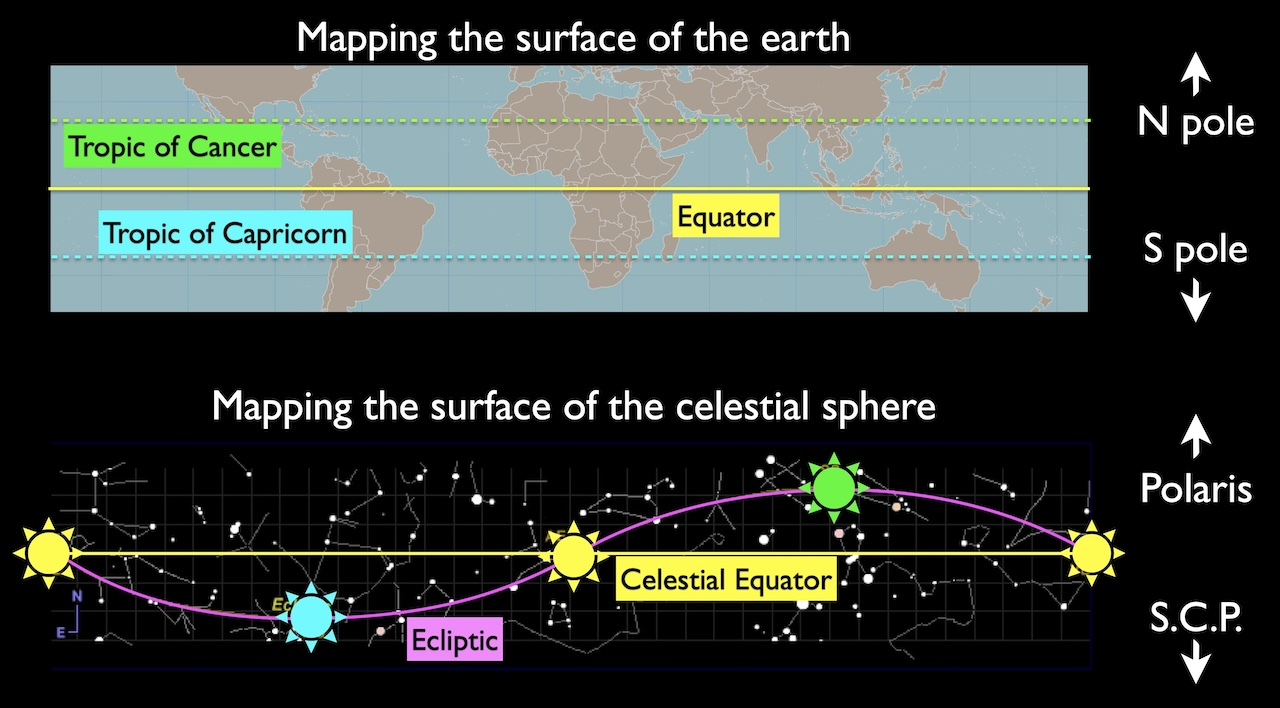
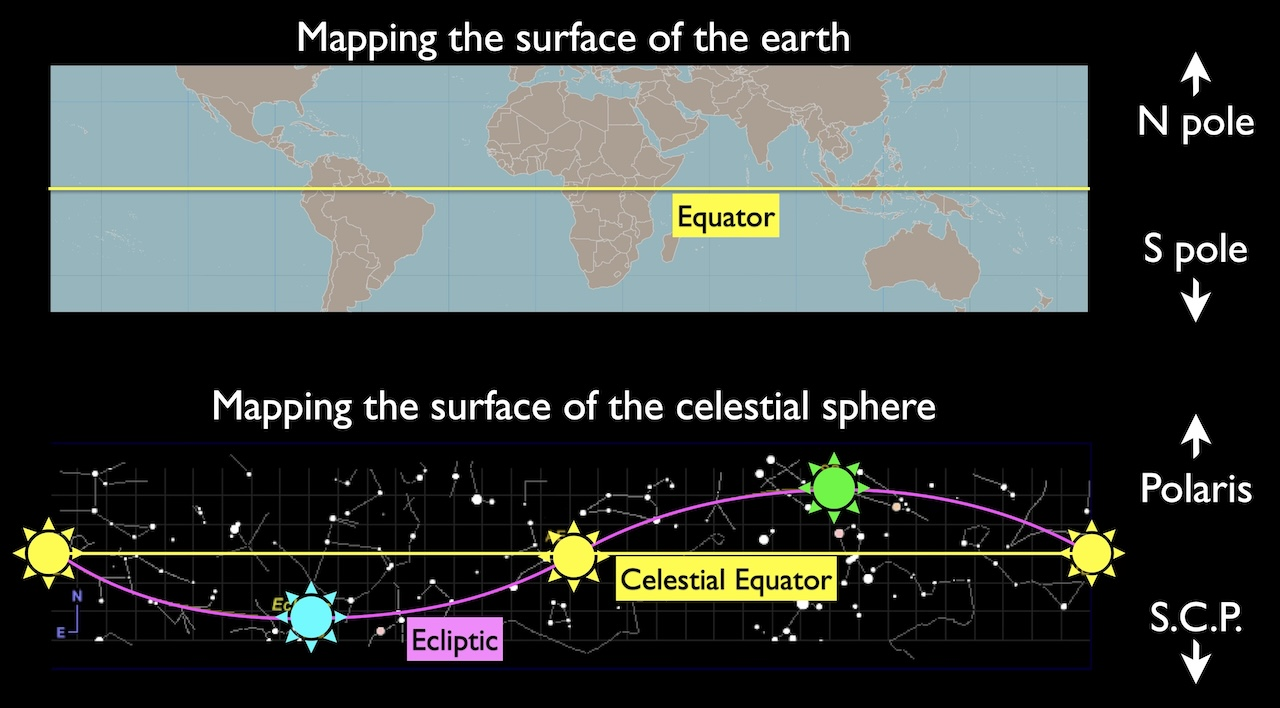
seasons

Changed region(s): [[0.0312, 0.2797, 0.8438, 0.3729], [0.0312, 0.1554, 0.8438, 0.2486]]

diff --git a/docs/modules/seasons_on_earth.md b/docs/modules/seasons_on_earth.md
@@ -1,0 +1,171 @@
+# Seasons on Earth
+
+Dr. Gabriela Gonzalez, 
+
+![Map of the Americas with labeled markers for Syracuse, NY, USA (green) in the northeastern United States and Córdoba, Argentina (purple) in central Argentina. A curved black arrow points from Córdoba northward to Syracuse. An oval portrait of a woman appears over North America near the Syracuse label.](img/GabrielaGonzalesCordobaToSyracuse.jpg)
+
+![Line graph of monthly average high and low temperatures (°F) for Córdoba (purple) and Syracuse (green). Córdoba’s curves are highest in January and lowest in July, while Syracuse’s curves are lowest in January and highest in July.](img/CompareAverageHighLowTemperatureCordobaSyracuse.png)
+
+ [Source: © WeatherSpark.com](https://weatherspark.com/compare/y/28147~22184/Comparison-of-the-Average-Weather-in-C%C3%B3rdoba-and-Syracuse)
+
+## Sunlight on the Earth
+
+* Earth’s axis is tilted by 23.5 degrees w/r/t the ecliptic plane
+
+* The Northern Hemisphere is tilted toward the Sun in June
+
+* The Southern Hemisphere is tilted toward the sun in December
+
+![Diagram of Earth at four points in its orbit (March equinox, June solstice, September equinox, December solstice). In all four positions, Earth’s axis is tilted about 23.5° relative to a line perpendicular to the orbital plane and remains parallel to itself; in the June position the North Pole leans toward the Sun, in the December position it leans away, and at the equinox positions it tilts sideways relative to the Sun.](img/equinoxes-and-solstice.png)
+*[Source: timeanddate.com](https://www.timeanddate.com/astronomy/equinox-solstice.html)*
+
+## Sunlight carries energy
+
+The angle of sunlight changes how much it heats the Earth.
+
+When the surface is tilted, it absorbs less energy from the Sun.
+![Sunlight illustration with parallel yellow arrows pointing downward across the image. In the center, a horizontal green bar casts evenly spaced vertical shadow lines below it. When the bar is tilted diagonally relative to the vertical arrows, it shadows fewer arrows.](img/sunlight-angle.jpg)
+
+### Direct sunlight
+
+* More direct sunlight when the sun is high: energy is concentrated  
+![Illustration of a person standing on a flat surface under a dome-shaped sky. Dashed arcs show different Sun paths across the sky.The Sun on the path highest toward the zenith, casting a yellow beam at a steep angle toward the person, illuminating a small spot on the ground. ](img/sunbeam-from-high.jpg)
+* Less direct sunlight when the sun is low: energy is spread out  
+![Illustration of a person standing on a flat surface under a dome-shaped sky. Dashed arcs show different Sun paths across the sky.The Sun on the path lowest near the right horizon, casting a yellow beam at a shallow angle toward the person, illuminating a larger spot on the gorund. ](img/sunbeam-from-low.jpg)
+
+## Changing the angle of sunlight
+
+From geosynchronous orbit, the Meteosat satellite recorded infrared images of the Earth every day at the same local time, from September 2010 to September 2011.
+
+Geosynchronous: always above the same position on Earth's surface.
+
+<iframe
+  width="560"
+  height="315"
+  src="https://www.youtube.com/embed/LUW51lvIFjg?loop=1&playlist=LUW51lvIFjg&mute=1&rel=0&modestbranding=1"
+  title="Descriptive title of the video content"
+  frameborder="0"
+  allow="autoplay; fullscreen; picture-in-picture"
+  referrerpolicy="strict-origin-when-cross-origin"
+  allowfullscreen>
+</iframe>
+
+To make these images, the Sun must have always been to the left of the camera.
+
+<quiz>
+
+![Three images of sun rays and half-illuminated earths. The left side of each Earth is bright and the right side is dark. (A) - Rays come from lower left. (B) - Rays come from upper left. (C) - Rays come from direct left.](../img/sun-rays-hit-earth.png)
+
+Which of these pictures shows a  physically realistic diagram of the Sun’s rays hitting the Earth?
+
+
+- [ ] (A) only
+- [ ] (B) only
+- [x] (C) only
+- [ ] All are realistic
+
+</quiz>
+
+## Sunlight on the Earth
+
+The illumination of earth determines the length of days and the amount of direct sunlight.
+
+
+![Earth spins on its axis, with the north pole tilted to the right in this image. Sunlight comes in from the left and the left half is illuminated. (A) marks a latitude line near the top of the sphere, less than half in light. (B) marks a latitude line near the bottom of the sphere, more than half in light. (C) marks a latitude near Antarctica, almost all in light.](img/spinning-earth-illuminated.gif)
+
+In this animation, (A) and (B) are each the same distance from the equator, but (A) is in the northern hemisphere and (B) is in the southern hemisphere.
+
+### Build your understanding
+
+<quiz>
+In the image above, which latitude has more hours of daylight?
+
+- [ ] (A) 
+- [x] (B) 
+
+More than half of B's day is spent in the lighted part of Earth.
+</quiz>
+
+<quiz>
+In the image above, which latitude has more direct sunlight?
+
+- [ ] (A) 
+- [x] (B) 
+
+Sun rays hitting Earth's surface at B are less tilted compared to the Earth's surface at A.
+
+</quiz>
+
+
+<quiz>
+ Which is more important for seasonal temperature: direct sunlight or hours of daylight?
+
+ Compare location B to location C, which is farther from the equator.
+
+
+- [x] Direct sunlight
+- [ ] Hours of daylight
+- [ ] Both equally important
+
+The Arctic and Antarctic can experience many hours of daylight, but the sunlight is always quite indirect. The temperatures remain low, so direct sunlight must be more important.
+
+</quiz>
+
+
+## Changing sunlight on Earth
+
+The Sun is at the zenith for different regions on Earth, depending on the [ecliptic](solstices_equinoxes.md#mapping-the-ecliptic):
+
+![Map of earth showing the region around the Equator. The Tropic of Cancer (green) is a bit above the equator, just below Florida and the Tropic of Capricorn (blue) is a bit below, through Australia.](img/map-of-tropics.jpg)
+
+* The sun is directly above the Equator at noon on the equinoxes
+* The sun is directly above the Tropic of Cancer in the Northern Hemisphere at noon on the June solstice (our Summer Solstice)
+* The sun is directly above the Tropic of Capricorn in the Southern Hemisphere at noon on the December solstice (our Winter Solstice)
+
+
+
+### Sun over Equator
+![Diagram of Earth half illuminated and half in darkness, with sunlight coming from the left. Earth’s axis is straight up and down. Latitude lines labeled Arctic Circle, Tropic of Cancer, Equator, Tropic of Capricorn, and Antarctic Circle appear on the right. A figure above the Tropic of Cancer and a figure below the Tropic of Capricorn are shown. They make the same angle with the sun rays.](img/earth-lighting-equinox.png)  
+*[Base image](https://commons.wikimedia.org/wiki/File:Earth-lighting-equinox_EN.png)*
+This image shows the angle of the sunlight when the sun is directly over the equator. 
+
+- This is an Equinox.
+
+- Northern and southern hemispheres experience the same sunlight.
+
+
+### Sun over Tropic of Cancer 
+
+![Diagram of Earth half illuminated and half in darkness, with sunlight coming from the left. Earth’s axis is shown tilted, with the North Pole angled away from the Sun. Latitude lines labeled Arctic Circle, Tropic of Cancer, Equator, Tropic of Capricorn, and Antarctic Circle appear on the right. A figure above the Tropic of Cancer is angled more toward the sun. A figure below the Tropic of Capricorn is angled more away from sun and wears a hat.](img/earth-lighting-summer-solstice.png)
+
+This image shows the angle of the sunlight when the sun is directly over the Tropic of Cancer. 
+
+- This is the June solstice.
+
+- Summer in Northern Hemisphere
+
+- Winter in Southern Hemisphere
+
+### Sun over Tropic of Capricorn 
+
+![Diagram of Earth half illuminated and half in darkness, with sunlight coming from the left. Earth’s axis is shown tilted, with the North Pole angled away from the Sun. Latitude lines labeled Arctic Circle, Tropic of Cancer, Equator, Tropic of Capricorn, and Antarctic Circle appear on the right. A figure above the Tropic of Cancer is angled more away from sun and wears a hat. A figure below the Tropic of Capricorn is angled more toward the sun.](img/earth-lighting-winter-solstice.png)
+
+- This is the December solstice.
+
+- Winter in Northern Hemisphere
+
+- Summer in Southern Hemisphere
+
+## The Cause of the Seasons
+
+**The tilt of Earth’s rotational axis and Earth’s movement in its orbit change how much direct sunlight shines on the northern and southern hemispheres.**
+
+## Seasonal Lag
+
+Average Temperatures at LAX Weather Station:
+
+![Line graph of monthly temperatures from January to December with three lines labeled High (yellow), Average (blue), and Low (purple). Highs increase from about 65°F in January to about 75°F in August–September, averages from about 57°F to 69°F, and lows from about 50°F to 65°F, then all decrease toward December.](img/lax-average-temperature-year.png)
+
+Sunlight is most direct here on the Summer Solstice. Why isn’t June the hottest month?
+
+It takes time to warm up and cool down.

diff --git a/docs/modules/solstices_equinoxes.md b/docs/modules/solstices_equinoxes.md
@@ -14,7 +14,8 @@ Remember [Earth's Orbit](seasonal_stars.md#earths-orbit). Why is the plane that 
 
 - The ecliptic is the Sun’s path through the constellations over the course of one year.
 
-![The celestial sphere surrounds Earth. The North Celestial Pole points to Polaris at the top. The Celestial Equator circles the middle. The Ecliptic is tilted compared to the celestial equator.](img/ecliptic-in-celestial-sphere.jpg)
+![The celestial sphere surrounds Earth. The North Celestial Pole points to Polaris at the top. The Celestial Equator circles the middle. The Ecliptic is tilted compared to the celestial equator.](img/ecliptic-in-celestial-sphere.jpg)  
+*(Schematic, not actual constellation positions)*
 
 ### Earth's orbit makes the Ecliptic
 
@@ -35,7 +36,8 @@ This movie shows how Earth's orbit makes the ecliptic. It is tilted because Eart
 We can map the ecliptic in the Celestial Sphere the same way we map the surface of Earth.
 
 
-![Mapping the surface of the earth: A map around the Equator, with an arrow up to the N pole and down to the S pole. The Tropic of Cancer (green) is a bit above the equator, just below Florida and the Tropic of Capricorn (blue) is a bit below, through Australia.  Mapping the surface of the celestial sphere: A map of stars around the Celestial Equator, with an arrow up to Polaris and down to the S.C.P. The Ecliptic is curved below and above the Celestial Equator. Sun symbols are marked in yellow when the Ecliptic crosses the equator. A green sun marks the northmost point and a blue sun marks the southmost point.](img/ecliptic-tropic-map.jpg)
+![Mapping the surface of the earth: A map of the Earth showing the region around the Equator, with an arrow up to the N pole and down to the S pole. Mapping the surface of the celestial sphere: A map of stars around the Celestial Equator, with an arrow up to Polaris and down to the S.C.P. The Ecliptic is curved below and above the Celestial Equator. Sun symbols are marked in yellow when the Ecliptic crosses the equator. A green sun marks the northmost point and a blue sun marks the southmost point.](img/ecliptic-tropic-map.jpg)  
+*(real map)*
 
 
 Locations of the Sun in the Celestial Sphere:
@@ -46,6 +48,7 @@ Locations of the Sun in the Celestial Sphere:
 
 * The December Solstice is when it is closest to the South Celestial Pole
 
+## Check your Understanding: The Ecliptic
 
 <quiz> How often is the Sun directly over Earth's Equator?
 
@@ -75,7 +78,7 @@ If the direction of the Sun’s motion along the ecliptic was reversed, how woul
 
 <details>
   <summary>Hint</summary>
-  <p>What real physical motion produces the Sun’s motion along the ecliptic? What real physical motion produces the Sun’s daily motion?</p>
+  <p>What real physical motion produces the Sun’s motion along the ecliptic? What real physical motion produces the Sun’s daily motion?Would changing one change the other?</p>
 </details>
 
 - [x] It would continue to rise in the East and set in the West
@@ -107,6 +110,22 @@ The path of the Sun through the sky changes over the year. This image shows the 
 
 ![Local sky marking East, South, and West points of the horizon, and the zenith above the South point. An arrow points down to the s.c.p. from the South point on the horizon. On the meridian line are the sun on June 21 Summer solstice highest, Mar 21 (Spring) and Sept 21 (Fall) Equinox in the middl, and Dec 21 Winter Solstice lowest.](img/yearly-motion-sun-sky.jpg)
 
+
+
+- The sun’s path is higher and longer in summer.
+
+- The sun’s path is lower and shorter in winter.
+
+- The sun's rise and set locations change over the course of the year.
+
+![A person stands in a local sky dome. N is left, E is back, S is right, W is front. The Zenith is marked at the top. Three sun paths are marked on the dome. The green stars north of east, arcs to just south of the zenith, and ends north of west. The yellow stars exactly east, arcs to high in the south, and ends exactly west. The blue starts south of east, arcs lower in the south, and ends south of west.](img/sun-paths-local-dome.jpg)
+
+### Daylight hours in Fullerton
+
+![Plot of daylight and dark hours over the course of a year. Jumps are visible March 11 and Nov 4 for daylight savings changes. Arrows show the daylight times at key dates of March 20 spring equinox (12 hours) June 21 summer solstice (14 hours) Sept 22 fall equinox (12 hours) Dec 21 winter solstice (10 hours).](img/daylight-hours-fullerton.jpg)
+
+## Check your Understanding: Solstices and Equinoxes 
+
 <quiz>
 The time for the sun to go from being highest in the sky at noon, to lowest in the sky at noon, and back to highest in the sky at noon again is…
 
@@ -125,5 +144,17 @@ When is the Sun above our horizon for the greatest number of hours?
 - [ ] Spring Equinox
 - [ ] Fall Equinox
 - [ ] Winter Solstice
+
+</quiz>
+
+<quiz>
+On September 21, the Sun will set exactly on the West Point of the horizon. 
+
+Where would the Sun appear to set 2 weeks later?
+
+- [x]  Farther south
+- [ ]  In the same place
+- [ ] Farther north
+
 
 </quiz>

diff --git a/docs/modules/daily_motion_sky.md b/docs/modules/daily_motion_sky.md
@@ -419,7 +419,7 @@ You look at the sky and see stars moving as shown in the long-exposure star trai
 You are in what hemisphere, facing what direction?
 
 - [ ] Northern, East
-- [ ] Northern, West
+- [x] Northern, West
 - [ ] Southern, West
 - [ ] Southern, East
 
